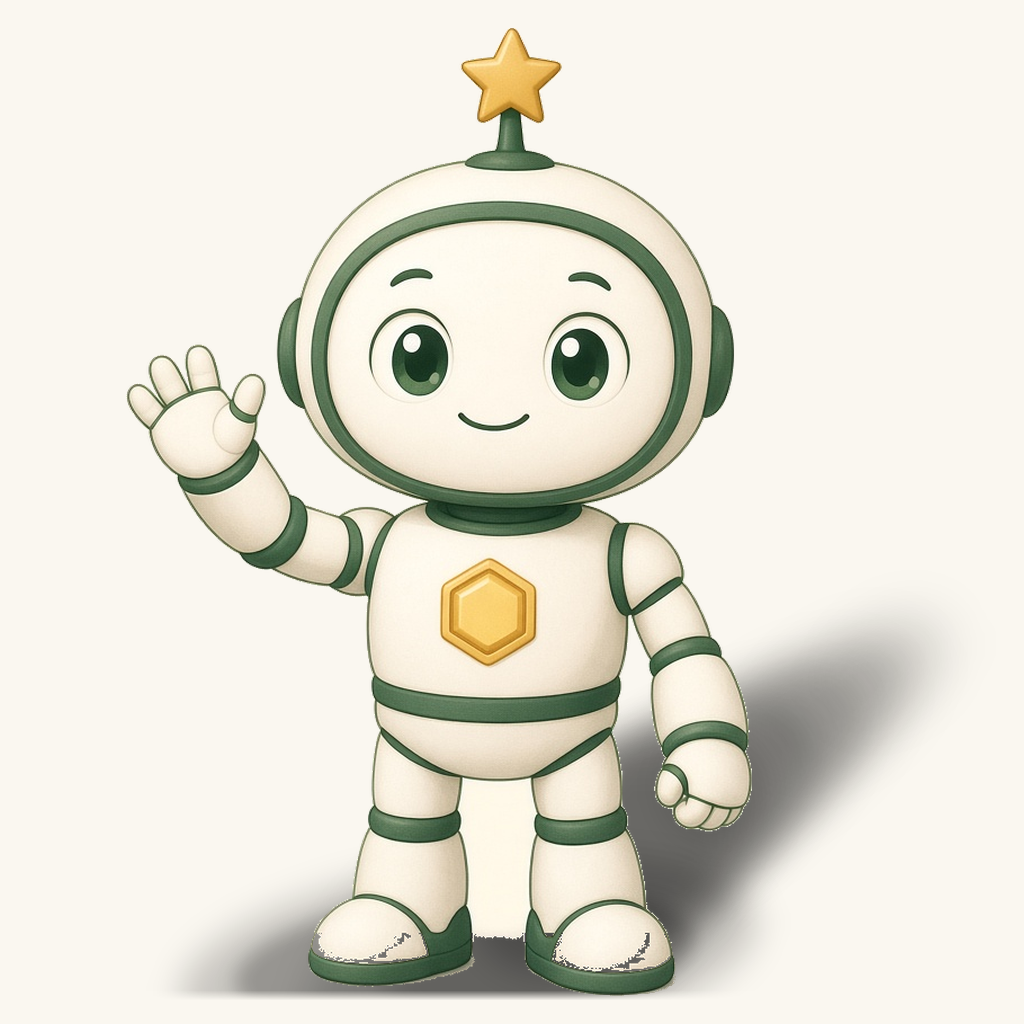
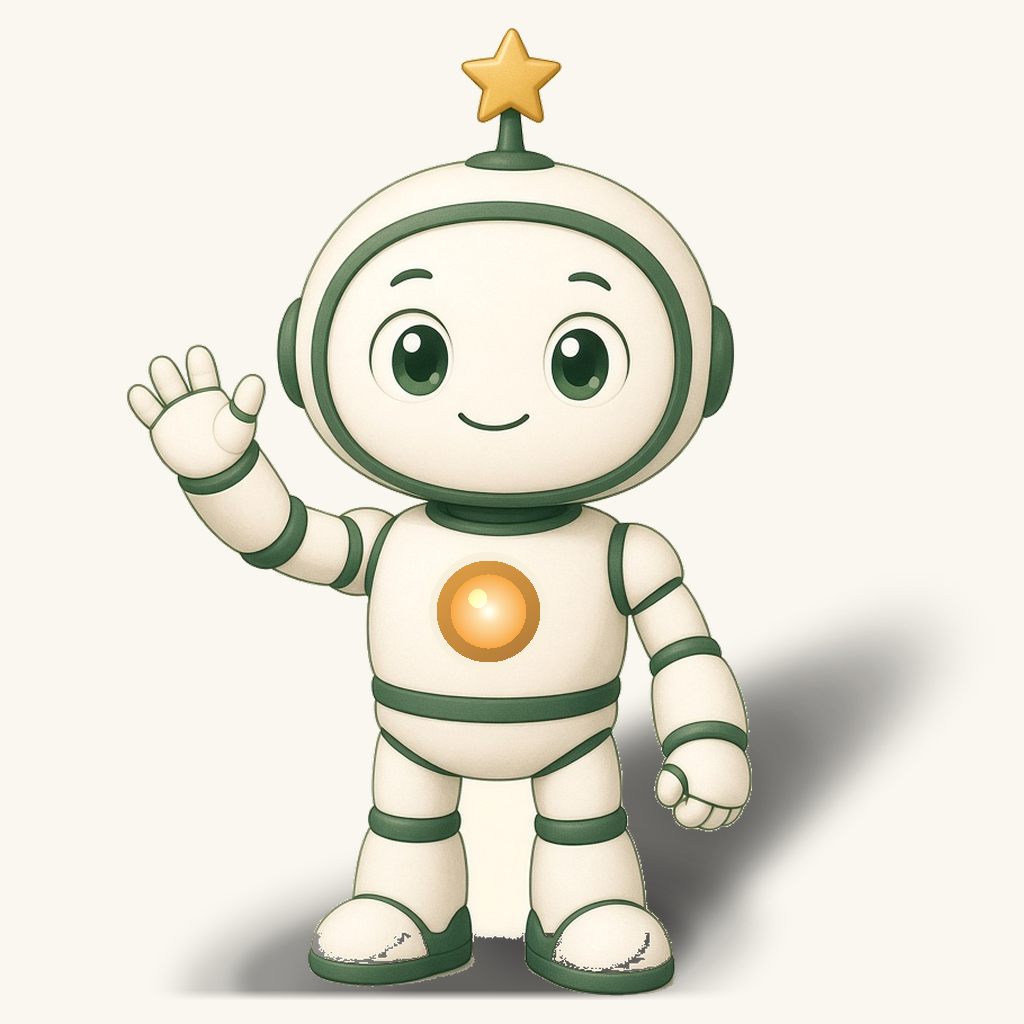
Save this EyeHaven version: Guangguang talks with mouth and hand only, chest lamp looks lit, and 光光出门 has a legendary first episode.

Changed region(s): [[0.4062, 0.5312, 0.5312, 0.6562]]

diff --git a/EyeHaven/SerialStory.swift b/EyeHaven/SerialStory.swift
@@ -28,38 +28,40 @@ enum SerialLibrary {
         }
     }
 
-    /// 3-5 岁：每集学会一个为什么，下一集带着新问题出门。
+    /// 3-5 岁：知识还是真的，外壳是一趟收灯的出门。假传说先响，真答案才肯进灯。
     static let littleQuestion = SerialSeries(
         id: "little-question",
         age: .little,
         title: "光光出门",
-        pitch: "光光是写这些故事的小机器人。圆脑袋，屏幕会笑，头上有一颗小星星。每晚只问一件真事。问完就回家。",
+        pitch: "窗台上有一张旧纸条：路灯亮起前，收回十二个真的。假的会把灯喂瘦。光光笑着出门，心里却很硬：好听的谎话，一盏都不收。",
         episodes: [
             .init(
                 id: "q-01",
                 number: 1,
                 title: "天为什么是蓝的",
-                hook: "光光第一次抬头。答案有了，可傍晚的天又换了颜色。",
+                hook: "有人说天是一桶蓝颜料打翻了。灯不亮。真答案收回来，傍晚却偷偷换了红衣服。",
                 text: """
-                窗台上住着光光。它是一只小小的机器人，圆脑袋，脸上是一块会笑的屏幕，头顶一颗暖黄的小星星。它最喜欢跟在小朋友后头，看见什么都要问一声。
-                今天它把灯调亮一点，看见整片天都是蓝的。它问太阳：“你是黄的，天为什么不黄？”太阳说：“我的光里有很多颜色。空气里的小颗粒最爱把蓝色推来推去，蓝色就铺满了上面。”
-                光光把这句话记进胸口那盏小灯：不是天涂了颜料，是蓝光最会散开。
-                傍晚，天忽然有点红。光光屏幕上的眼睛睁圆了：“蓝的不是散开了吗？红又是谁？”
-                太阳已经落到楼后面，只留下一句：“光走过更长的空气，会换一件衣服。明天再问。”
-                第一集到这里。蓝的学会了。红的，要等下一回出门。
+                窗台上住着光光。圆脑袋，会笑，头上一颗小星星。胸口有一盏暖灯。灯最近瘦了一圈。
+                纸条是旧的，边都毛了：“出门十二次。只收回真的。假的会把灯喂瘦。”光光屏幕上还在笑，手指却按住灯。它不要假的。
+                有人指着天说：“那是巨人打翻了蓝颜料。”光光喜欢这句话，几乎要点头。灯却一点也不亮。它把笑收小一点，去问太阳。
+                太阳说：“我的光里藏着许多颜色。空气最爱把蓝色推来推去，蓝色就铺满了上面。不是颜料。是蓝光最会散开。”
+                光光把这句话喂进灯。灯“叮”地亮了一粒。头顶的星星也跟着亮了一粒。假的蓝桶，它丢掉了。
+                傍晚，天忽然穿上红衣服。有人又说：“太阳流血了。”灯又暗了一下。光光站在门口，不进门。
+                太阳已经落到楼后面，只丢下一句：“光走远了，会换一件衣服。红的，还在路上。”
+                第一集到这里。蓝的是真的。红的那件衣服，要等下一回出门。
                 """
             ),
-            .init(id: "q-02", number: 2, title: "晚霞为什么是红的", hook: "光走远了，蓝的先散掉，红的留下来。可天全黑以后，红又去哪了？", text: nil),
-            .init(id: "q-03", number: 3, title: "月亮为什么好像跟着走", hook: "树会溜走，月亮几乎不动。因为它太远了。那星星为什么一眨一眨？", text: nil),
-            .init(id: "q-04", number: 4, title: "星星为什么会眨眼", hook: "星星自己是稳的，空气把光弯了一下。那流星是星星在跑吗？", text: nil),
-            .init(id: "q-05", number: 5, title: "流星不是星星在搬家", hook: "那是小石头擦亮空气。光光头顶的星星亮了一下：那雨是天在哭吗？", text: nil),
-            .init(id: "q-06", number: 6, title: "雨点为什么会唱歌", hook: "小水滴敲叶子，空气就响。雨停了，天上为什么又弯出一条彩带子？", text: nil),
-            .init(id: "q-07", number: 7, title: "彩虹是怎么挂上去的", hook: "小水滴把白光拆开。彩虹走了以后，衣服上的水珠还会闪，那是同一件事吗？", text: nil),
-            .init(id: "q-08", number: 8, title: "影子为什么跟着我", hook: "身体挡住光，就有影子。关灯以后影子回家了。那镜子里的人是影子吗？", text: nil),
-            .init(id: "q-09", number: 9, title: "镜子里为什么有另一个我", hook: "光撞上玻璃再折回来。镜子里的人却左右反了。为什么书在镜子里会反着写？", text: nil),
-            .init(id: "q-10", number: 10, title: "为什么会打哈欠", hook: "身体在说该歇了。看见别人打哈欠，自己也会。那睡觉时眼睛为什么要关上？", text: nil),
-            .init(id: "q-11", number: 11, title: "人为什么一定要睡觉", hook: "脑子要整理白天，眼睛的肌肉要松开。不睡，明天会慢。可小猫夜里为什么还看得见？", text: nil),
-            .init(id: "q-12", number: 12, title: "小猫夜里为什么看得清", hook: "眼睛后面像有小镜子。你不是小猫，夜里可以暗一点。光光把十二个答案收进小灯，明天换一条路。", text: nil)
+            .init(id: "q-02", number: 2, title: "晚霞为什么是红的", hook: "不是太阳流血。光走远了，蓝的先散掉，红的留下来。天全黑以后，红又去了哪？", text: nil),
+            .init(id: "q-03", number: 3, title: "月亮为什么好像跟着走", hook: "有人说月亮在跟踪你。树会溜走，月亮几乎不动，因为它太远。那眨眼睛的，是谁？", text: nil),
+            .init(id: "q-04", number: 4, title: "星星为什么会眨眼", hook: "不是星星在使眼色。它自己是稳的，空气把光弯了一下。天上忽然划过一条亮线，是星星在搬家吗？", text: nil),
+            .init(id: "q-05", number: 5, title: "流星不是星星在搬家", hook: "那是小石头擦亮空气。灯又亮一粒。下雨了，有人说天在哭。灯又不答应。", text: nil),
+            .init(id: "q-06", number: 6, title: "雨点为什么会唱歌", hook: "不是云在弹琴。小水滴敲叶子，空气就响。雨停了，天上为什么偷偷挂上一条彩带子？", text: nil),
+            .init(id: "q-07", number: 7, title: "彩虹是怎么挂上去的", hook: "没有人爬上去钉钉子。小水滴把白光拆开。彩带子走了，衣服上的水珠还会闪，是同一件宝物吗？", text: nil),
+            .init(id: "q-08", number: 8, title: "影子为什么跟着我", hook: "有人说那是另一个自己。其实身体挡住光，才有影子。关灯以后它回家了。那镜子里的人呢？", text: nil),
+            .init(id: "q-09", number: 9, title: "镜子里为什么有另一个我", hook: "不是镜子里关着一个小孩。光撞上玻璃再折回来，左右却反了。书在里面为什么反着写？", text: nil),
+            .init(id: "q-10", number: 10, title: "为什么会打哈欠", hook: "不是有人把困意传染成魔法。身体在说该歇了。看见别人打哈欠，自己也会。睡觉时眼睛为什么要关上？", text: nil),
+            .init(id: "q-11", number: 11, title: "人为什么一定要睡觉", hook: "不是被夜收走。脑子要整理白天，眼睛的肌肉要松开。不睡，明天会慢。可小猫夜里为什么还看得见？", text: nil),
+            .init(id: "q-12", number: 12, title: "小猫夜里为什么看得清", hook: "眼睛后面像有小镜子。你不是小猫，夜里可以暗一点。十二粒真的收回来，灯圆了。纸条翻面：明天换一条路。", text: nil)
         ]
     )
 

diff --git a/EyeHaven/TipsView.swift b/EyeHaven/TipsView.swift
@@ -20,18 +20,15 @@ struct TipsView: View {
                 ScrollView {
                     VStack(alignment: .leading, spacing: 14) {
                         VStack(spacing: 10) {
-                            Image("Guangguang")
-                                .resizable()
-                                .scaledToFit()
-                                .frame(
-                                    width: HavenLayout.isPad ? 280 : 220,
-                                    height: HavenLayout.isPad ? 280 : 220
-                                )
-                                .frame(maxWidth: .infinity)
+                            GuangguangTalking(
+                                talking: false,
+                                size: HavenLayout.isPad ? 280 : 220
+                            )
+                            .frame(maxWidth: .infinity)
                             Text("光光")
                                 .font(HavenLayout.isPad ? .title.weight(.bold) : .title2.weight(.bold))
                                 .foregroundStyle(Palette.dusk)
-                            Text("写故事的小机器人。胸口一盏暖灯，每晚只问一个真问题。")
+                            Text("写故事的小机器人。胸口一盏暖灯。假的不要，真的才肯收回去。")
                                 .font(.subheadline)
                                 .foregroundStyle(Palette.pine.opacity(0.75))
                                 .multilineTextAlignment(.center)
@@ -285,6 +282,12 @@ struct BedtimeStoryPage: View {
     var body: some View {
         ScrollView {
             VStack(alignment: .leading, spacing: 16) {
+                GuangguangTalking(
+                    talking: true,
+                    size: HavenLayout.isPad ? 180 : 132
+                )
+                .frame(maxWidth: .infinity)
+
                 Text("小为什么 · \(story.age.rawValue)")
                     .font(.caption.weight(.semibold))
                     .foregroundStyle(Palette.gold)
@@ -313,6 +316,12 @@ struct SerialEpisodePage: View {
     var body: some View {
         ScrollView {
             VStack(alignment: .leading, spacing: 16) {
+                GuangguangTalking(
+                    talking: episode.text != nil,
+                    size: HavenLayout.isPad ? 180 : 132
+                )
+                .frame(maxWidth: .infinity)
+
                 Text(seriesTitle)
                     .font(.caption.weight(.semibold))
                     .foregroundStyle(Palette.gold)
@@ -346,6 +355,28 @@ struct SerialEpisodePage: View {
         }
         .background(Palette.foam.ignoresSafeArea())
         .navigationBarTitleDisplayMode(.inline)
+    }
+}
+
+/// 故事页里的光光。身子不晃。读书时只换嘴巴和手。不要接到计时或朗读。
+private struct GuangguangTalking: View {
+    var talking: Bool
+    var size: CGFloat
+
+    var body: some View {
+        TimelineView(.animation(minimumInterval: 0.22, paused: !talking)) { context in
+            Image(Self.frameName(talking: talking, date: context.date))
+                .resizable()
+                .scaledToFit()
+                .frame(width: size, height: size)
+                .accessibilityLabel("光光")
+        }
+    }
+
+    private static func frameName(talking: Bool, date: Date) -> String {
+        guard talking else { return "Guangguang" }
+        let open = Int(date.timeIntervalSinceReferenceDate / 0.22) % 2 == 0
+        return open ? "GuangguangTalkA" : "GuangguangTalkB"
     }
 }
 
